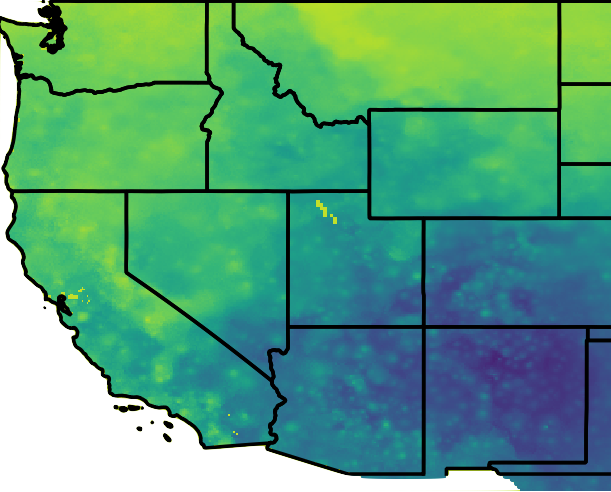
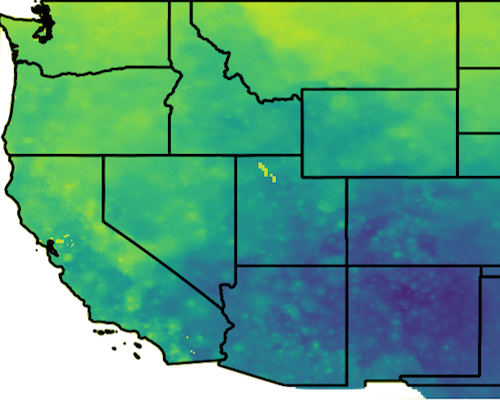
updated loca pngs

diff --git a/my_acis/templates/scenic/analysis/cold/loca/CNRM-CM5_cold.html b/my_acis/templates/scenic/analysis/cold/loca/CNRM-CM5_cold.html
@@ -11,10 +11,11 @@
         var data_file = data_dir + 'tmin_rcp85_ind_sums_years.json';
         var temp_data = data_dir + 'tmin_rcp85_ts_years.json';
         index_sums_years(data_file, 0.3777,0.1149,9.7257,0.0686, temp_data, 0.0979,0.2138,-7.8283,0.0156, 'Minimum', 'container-1');
+        regression_plots(data_file, temp_data,0.0000001382,-0.6144,-25.1430,-5.0182,'Minimum', 'container-27')
         data_file = data_dir + 'tmax_rcp85_ind_sums_years.json';
         temp_data = data_dir + 'tmax_rcp85_ts_years.json'
         index_sums_years(data_file, 0.4332,0.1021,8.8766,0.0602, temp_data,0.3106,0.1319,5.5121,0.0103, 'Maximum', 'container-2');
-
+        regression_plots(data_file, temp_data,0.00002662,-0.5102,33.0306,-3.8378,'Maximum', 'container-28')
         //PCA 1 -3
         data_file = data_dir + 'tmin_rcp85_pca_component_1_ts.json'
         pca_ts(data_file, 'container-3', '1')
@@ -72,18 +73,120 @@
         <p class="large">Cold Indices are summed over the winter season (DJF) and averaged over all gridpoints.</p>
         <div class="row">
             <div class="col-md-12">
-                <h3>Minimum Temperature</h3>
+                <h3>Minimum Temperature (Correlation between temperatures an index sums: -0.6144)</h3>
                 <div width="100%" id="container-1"></div>
+            </div>
+        </div>
+        <h2 align="center">Slope maps</h2>
+        <p class="large">At each location th slope of the regression line  is computed.</p>
+        <div class="row">
+            <div class="col-md-6">
+                <h3>Mean Temperatures</h3>
+                <div class="col-md-11">
+                    <img src="{{MEDIA_URL}}/img/cold/loca/CNRM-CM5/tmin_rcp85_temps_slopes.png">
+                </div>
+                 <div class="col-md-1">
+                    <img src="{{MEDIA_URL}}/img/cold/loca/CNRM-CM5/tmin_rcp85_temps_slopes_legend.png">
+                </div>
+            </div>
+            <div class="col-md-6">
+                <h3>Index Sums</h3>
+                <div class="col-md-11">
+                    <img src="{{MEDIA_URL}}/img/cold/loca/CNRM-CM5/tmin_rcp85_sums_slopes.png">
+                </div>
+                <div class="col-md-1">
+                    <img src="{{MEDIA_URL}}/img/cold/loca/CNRM-CM5/tmin_rcp85_sums_slopes_legend.png">
+                </div>
+            </div>
+        </div>
+        <div class="row">
+            <div class="col-md-12">
+                <h3>Maximum Temperature (Correlation between temperatures an index sums: -0.5102)</h3>
+                <div width="100%" id="container-2"></div>
+            </div>
+        </div>
+        <h2 align="center">Slope maps</h2>
+        <p class="large">At each location th slope of the regression line  is computed.</p>
+        <div class="row">
+            <div class="col-md-6">
+                <h3>Mean Temperatures</h3>
+                <div class="col-md-11">
+                    <img src="{{MEDIA_URL}}/img/cold/loca/CNRM-CM5/tmax_rcp85_temps_slopes.png">
+                </div>
+                 <div class="col-md-1">
+                    <img src="{{MEDIA_URL}}/img/cold/loca/CNRM-CM5/tmax_rcp85_temps_slopes_legend.png">
+                </div>
+            </div>
+            <div class="col-md-6">
+                <h3>Index Sums</h3>
+                <div class="col-md-11">
+                    <img src="{{MEDIA_URL}}/img/cold/loca/CNRM-CM5/tmax_rcp85_sums_slopes.png">
+                </div>
+                <div class="col-md-1">
+                    <img src="{{MEDIA_URL}}/img/cold/loca/CNRM-CM5/tmax_rcp85_sums_slopes_legend.png">
+                </div>
+            </div>
+        </div>
+        <h2 align="center">Regression analysis</h2>
+        <div class="row">
+            <div class="col-md-12">
+                <h3>Minimum Temperature</h3>
+                <div width="100%" id="container-27"></div>
             </div>
         </div>
         <div class="row">
             <div class="col-md-12">
                 <h3>Maximum Temperature</h3>
-                <div width="100%" id="container-2"></div>
+                <div width="100%" id="container-28"></div>
             </div>
         </div>
 
-        
+        <h2 align="center">Temperature vs Index Sum Slope maps</h2>
+        <p class="large">At each location th slope of the regression line of temperature averages vs index sums is computed.
+        None zero values on the map are slopes where the p-value is less than 0.05</p>
+        <div class="row">
+            <div class="col-md-6">
+                <h3>Minimum Temperature</h3>
+                <div class="col-md-11">
+                    <img src="{{MEDIA_URL}}/img/cold/loca/CNRM-CM5/tmin_rcp85_index_sum_slopes.png">
+                </div>
+                 <div class="col-md-1">
+                    <img src="{{MEDIA_URL}}/img/cold/loca/CNRM-CM5/loca_index_sum_slopes_legend.png">
+                </div>
+            </div>
+            <div class="col-md-6">
+                <h3>Maximum Temperature</h3>
+                <div class="col-md-11">
+                    <img src="{{MEDIA_URL}}/img/cold/loca/CNRM-CM5/tmax_rcp85_index_sum_slopes.png">
+                </div>
+                <div class="col-md-1">
+                    <img src="{{MEDIA_URL}}/img/cold/loca/CNRM-CM5/loca_index_sum_slopes_legend.png">
+                </div>
+            </div>
+        </div> 
+        <h2 align="center">Temperature vs Index Correlation Coefficient  maps</h2>
+        <p class="large">At each location the correlation coefficient of the regression line of temperature averages vs index sums is computed.</p>
+        <div class="row">
+            <div class="col-md-6">
+                <h3>Minimum Temperature</h3>
+                <div class="col-md-11">
+                    <img src="{{MEDIA_URL}}/img/cold/loca/CNRM-CM5/tmin_rcp85_index_sum_correlations.png">
+                </div>
+                 <div class="col-md-1">
+                    <img src="{{MEDIA_URL}}/img/cold/loca/CNRM-CM5/loca_index_sum_correlation_legend.png">
+                </div>
+            </div>
+            <div class="col-md-6">
+                <h3>Maximum Temperature</h3>
+                <div class="col-md-11">
+                    <img src="{{MEDIA_URL}}/img/cold/loca/CNRM-CM5/tmax_rcp85_index_sum_correlations.png">
+                </div>
+                <div class="col-md-1">
+                    <img src="{{MEDIA_URL}}/img/cold/loca/CNRM-CM5/loca_index_sum_correlation_legend.png">
+                </div>
+            </div>
+        </div>        
+ 
         <h2 align="center">Min and Max Temperature Cold Index maps</h2>
         <h3 align="center">Index Means</h3>
         <p class="large">Cold Indices are averaged over the winter season and averaged over all years.</p>

diff --git a/my_acis/templates/scenic/analysis/cold/livneh/cold.html b/my_acis/templates/scenic/analysis/cold/livneh/cold.html
@@ -11,10 +11,11 @@
         var data_file = data_dir + 'tmin_ind_sums_years.json';
         var temp_data = data_dir + 'tmin_ts_years.json'
         index_sums_years(data_file, 0.0463,-0.2561,17.6594,-0.1825,temp_data,0.2203,0.1592,-8.2310,0.0103,'Minimum', 'container-1');
+        regression_plots(data_file, temp_data,0.0180,0.889, 13.7526,0.1980,'Minimum', 'container-27')
         data_file = data_dir + 'tmax_ind_sums_years.json';
         temp_data = data_dir + 'tmax_ts_years.json'
         index_sums_years(data_file,0.3202,-0.1293,14.1181,-0.0871, temp_data,0.7915,-0.0345,5.2526,-0.0024, 'Maximum', 'container-2');
-
+        regression_plots(data_file, temp_data,0.0727,0.5776,7.9176,0.6926,'Maximum', 'container-28')
         //PCA 1 -3
         data_file = data_dir + 'tmin_pca_component_1_ts.json'
         pca_ts(data_file, 'container-3', '1')
@@ -72,18 +73,119 @@
         <p class="large">Cold Indices are summed over the winter season (DJF) and averaged over all gridpoints.</p>
         <div class="row">
             <div class="col-md-12">
-                <h3>Minimum Temperature</h3>
+                <h3>Minimum Temperature (Correlation between temperatures an index sums: 0.889)</h3>
                 <div width="100%" id="container-1"></div>
+            </div>
+        </div>
+        <h2 align="center">Slope maps</h2>
+        <p class="large">At each location th slope of the regression line  is computed.</p>
+        <div class="row">
+            <div class="col-md-6">
+                <h3>Mean Temperatures</h3>
+                <div class="col-md-11">
+                    <img src="{{MEDIA_URL}}/img/cold/livneh/tmin_temps_slopes.png">
+                </div>
+                 <div class="col-md-1">
+                    <img src="{{MEDIA_URL}}/img/cold/livneh/tmin_temps_slopes_legend.png">
+                </div>
+            </div>
+            <div class="col-md-6">
+                <h3>Index Sums</h3>
+                <div class="col-md-11">
+                    <img src="{{MEDIA_URL}}/img/cold/livneh/tmin_sums_slopes.png">
+                </div>
+                <div class="col-md-1">
+                    <img src="{{MEDIA_URL}}/img/cold/livneh/tmin_sums_slopes_legend.png">
+                </div>
             </div>
         </div>
         <div class="row">
             <div class="col-md-12">
-                <h3>Maximum Temperature</h3>
+                <h3>Maximum Temperature (Correlation between temperatures an index sums: 0.5776)</h3>
                 <div width="100%" id="container-2"></div>
             </div>
         </div>
+        <h2 align="center">Slope maps</h2>
+        <p class="large">At each location th slope of the regression line  is computed.</p>
+        <div class="row">
+            <div class="col-md-6">
+                <h3>Mean Temperatures</h3>
+                <div class="col-md-11">
+                    <img src="{{MEDIA_URL}}/img/cold/livneh/tmax_temps_slopes.png">
+                </div>
+                 <div class="col-md-1">
+                    <img src="{{MEDIA_URL}}/img/cold/livneh/tmax_temps_slopes_legend.png">
+                </div>
+            </div>
+            <div class="col-md-6">
+                <h3>Index Sums</h3>
+                <div class="col-md-11">
+                    <img src="{{MEDIA_URL}}/img/cold/livneh/tmax_sums_slopes.png">
+                </div>
+                <div class="col-md-1">
+                    <img src="{{MEDIA_URL}}/img/cold/livneh/tmax_sums_slopes_legend.png">
+                </div>
+            </div>
+        </div>
 
-        
+        <h2 align="center">Regression analysis</h2>
+        <div class="row">
+            <div class="col-md-12">
+                <h3>Minimum Temperature</h3>
+                <div width="100%" id="container-27"></div>
+            </div>
+        </div>  
+        <div class="row">
+            <div class="col-md-12">
+                <h3>Maximum Temperature</h3>
+                <div width="100%" id="container-28"></div>
+            </div>  
+        </div>
+        <h2 align="center">Temperature vs Index Sums Slope maps</h2>
+        <p class="large">At each location th slope of the regression line of temperature averages vs index sums is computed.
+        None zero values on the map are slopes where the p-value is less than 0.05</p>
+        <div class="row">
+            <div class="col-md-6">
+                <h3>Minimum Temperature</h3>
+                <div class="col-md-11">
+                    <img src="{{MEDIA_URL}}/img/cold/livneh/tmin_index_sum_slopes.png">
+                </div>
+                 <div class="col-md-1">
+                    <img src="{{MEDIA_URL}}/img/cold/livneh/index_sum_slopes_legend.png">
+                </div>
+            </div>
+            <div class="col-md-6">
+                <h3>Maximum Temperature</h3>
+                <div class="col-md-11">
+                    <img src="{{MEDIA_URL}}/img/cold/livneh/tmax_index_sum_slopes.png">
+                </div>
+                <div class="col-md-1">
+                    <img src="{{MEDIA_URL}}/img/cold/livneh/index_sum_slopes_legend.png">
+                </div>
+            </div>
+        </div> 
+        <h2 align="center">Temperature vs Index Correlation Coefficient  maps</h2>
+        <p class="large">At each location the correlation coefficient of the regression line of temperature averages vs index sums is computed.</p>
+        <div class="row">
+            <div class="col-md-6">
+                <h3>Minimum Temperature</h3>
+                <div class="col-md-11">
+                    <img src="{{MEDIA_URL}}/img/cold/livneh/tmin_index_sum_correlations.png">
+                </div>
+                 <div class="col-md-1">
+                    <img src="{{MEDIA_URL}}/img/cold/livneh/livneh_index_sum_correlation_legend.png">
+                </div>
+            </div>
+            <div class="col-md-6">
+                <h3>Maximum Temperature</h3>
+                <div class="col-md-11">
+                    <img src="{{MEDIA_URL}}/img/cold/livneh/tmax_index_sum_correlations.png">
+                </div>
+                <div class="col-md-1">
+                    <img src="{{MEDIA_URL}}/img/cold/livneh/livneh_index_sum_correlation_legend.png">
+                </div>
+            </div>
+        </div>
         <h2 align="center">Min and Max Temperature Cold Index maps</h2>
         <h3 align="center">Index Means</h3>
         <p class="large">Cold Indices are averaged over the winter season and averaged over all years.</p>

diff --git a/my_acis/media/myjs/cold-highcharts-functions.js b/my_acis/media/myjs/cold-highcharts-functions.js
@@ -3,6 +3,70 @@ String.prototype.inList=function(list){
    return ( list.indexOf(this.toString()) != -1)
 }
 
+function regression_plots(index_sums, temp_data,p, pc,a0, a1,temp_type, container){
+    $.getJSON(index_sums, function( index_ts ) {
+        $.getJSON(temp_data, function(t_data) {
+            var reg_title = 'Regression Index, pearson_coeff: ' + String(pc) + ', p_value: ' + String(p)  + ', slope/intercept: ' + a1 + '/' + a0;
+            var ts_data = [], reg_data = [], years = [];
+            var sorted_t_ts = t_data.sort(), idx_i;
+            var xmin = Math.min.apply(null, t_data);
+            var xmax = Math.max.apply(null, t_data);
+            for (var i=0; i<sorted_t_ts.length; i++){
+                idx_i = t_data.indexOf(sorted_t_ts[i]);
+                ts_data.push([parseFloat(t_data[idx_i].toFixed(4)), parseFloat(index_ts[idx_i].toFixed(4))]);
+                //reg_data.push(parseFloat((a0 + i*a1).toFixed(4)));
+                years.push(1951 + i);
+            }
+            reg_data = [[xmin, parseFloat((a0 + xmin*a1).toFixed(4))], [xmax, parseFloat((a0 + xmax*a1).toFixed(4))]]
+            Highcharts.chart(container, {
+                title: {
+                    text: 'Mean Temperatures and Index Sums Regression'
+                },
+                subtitle: {
+                    text: reg_title + '<br>'
+                },
+                xAxis: [{
+                    title: 'Temperature', 
+                    min: xmin,
+                    max: xmax
+                }],
+                yAxis: [{
+                    title: {
+                        text: 'Mean sum of Index'
+                    },
+                }],
+                tooltip: {
+                    shared: true
+                },
+                legend: {
+                    layout: 'vertical',
+                    align: 'right',
+                    verticalAlign: 'middle'
+                },
+                plotOptions: {
+                    series: {
+                        label: {
+                            connectorAllowed: false
+                        }
+                    }
+                },
+                series: [{
+                        type: 'scatter',
+                        name: 'Temperature vs Index',
+                        data: ts_data,
+                        color: '#0000ff',
+                    },
+                    {
+                        type: 'line',
+                        name: 'Regression',
+                        data: reg_data,
+                        color: '#000000'
+                }]
+            });      
+        });
+    });
+}
+
 
 function index_sums_years(index_sums,p1, pc1, a01, a11, temp_data, p2, pc2, a02,a12,temp_type, container) {
     $.getJSON(index_sums, function( index_ts ) {
@@ -16,7 +80,7 @@ function index_sums_years(index_sums,p1, pc1, a01, a11, temp_data, p2, pc2, a02,
         $.getJSON(temp_data, function(t_data) {
             temp_ts = t_data;
             var reg_temp = [];
-            for (var i=0; i<temp_data.length; i++){
+            for (var i=0; i<temp_ts.length; i++){
                 reg_temp.push(a02 + i*a12);
             }        
             var reg_title_temp = 'Regression Temperature, pearson_coeff: ' + String(pc2) + ', p_value: ' + String(p2)  + ', slope/intercept: ' + a12 + '/' + a02;            
